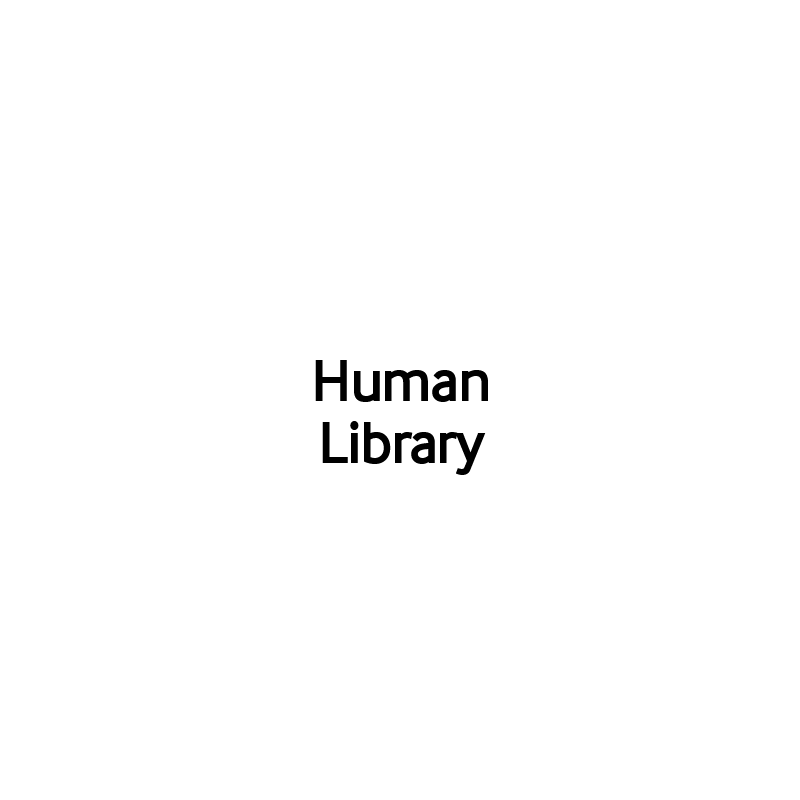
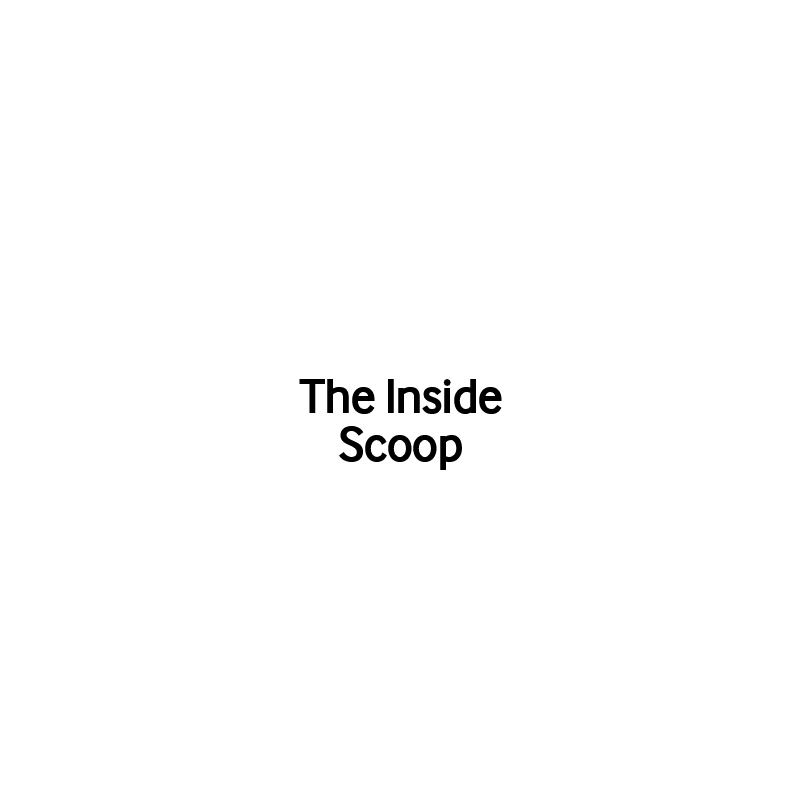
changed name & updated animation

Changed region(s): [[0.375, 0.4375, 0.625, 0.5938]]

diff --git a/src/HumanLibraryPie.jsx b/src/HumanLibraryPie.jsx
@@ -222,7 +222,17 @@ export default function HumanLibraryPie() {
                     overflow: "hidden"
                   }}
                 >
-                  <h2 style={{ margin: 0, fontSize: 28, fontWeight: 700, paddingTop: expanded ? "30px" : "0px" }}>{s.label}</h2>
+                  <h2 style={{ 
+                    margin: 0, 
+                    fontSize: 28, 
+                    fontWeight: 700, 
+                    paddingTop: expanded ? "30px" : "0px",
+                    width: isActive && expanded ? 420 : isActive ? 300 : 500,
+                    textAlign: "center",
+                    hyphens: "auto",
+                    wordBreak: "break-word" 
+                  }}>{s.label}</h2>
+
                   <div style={{
                     width: 60,
                     height: 4,
